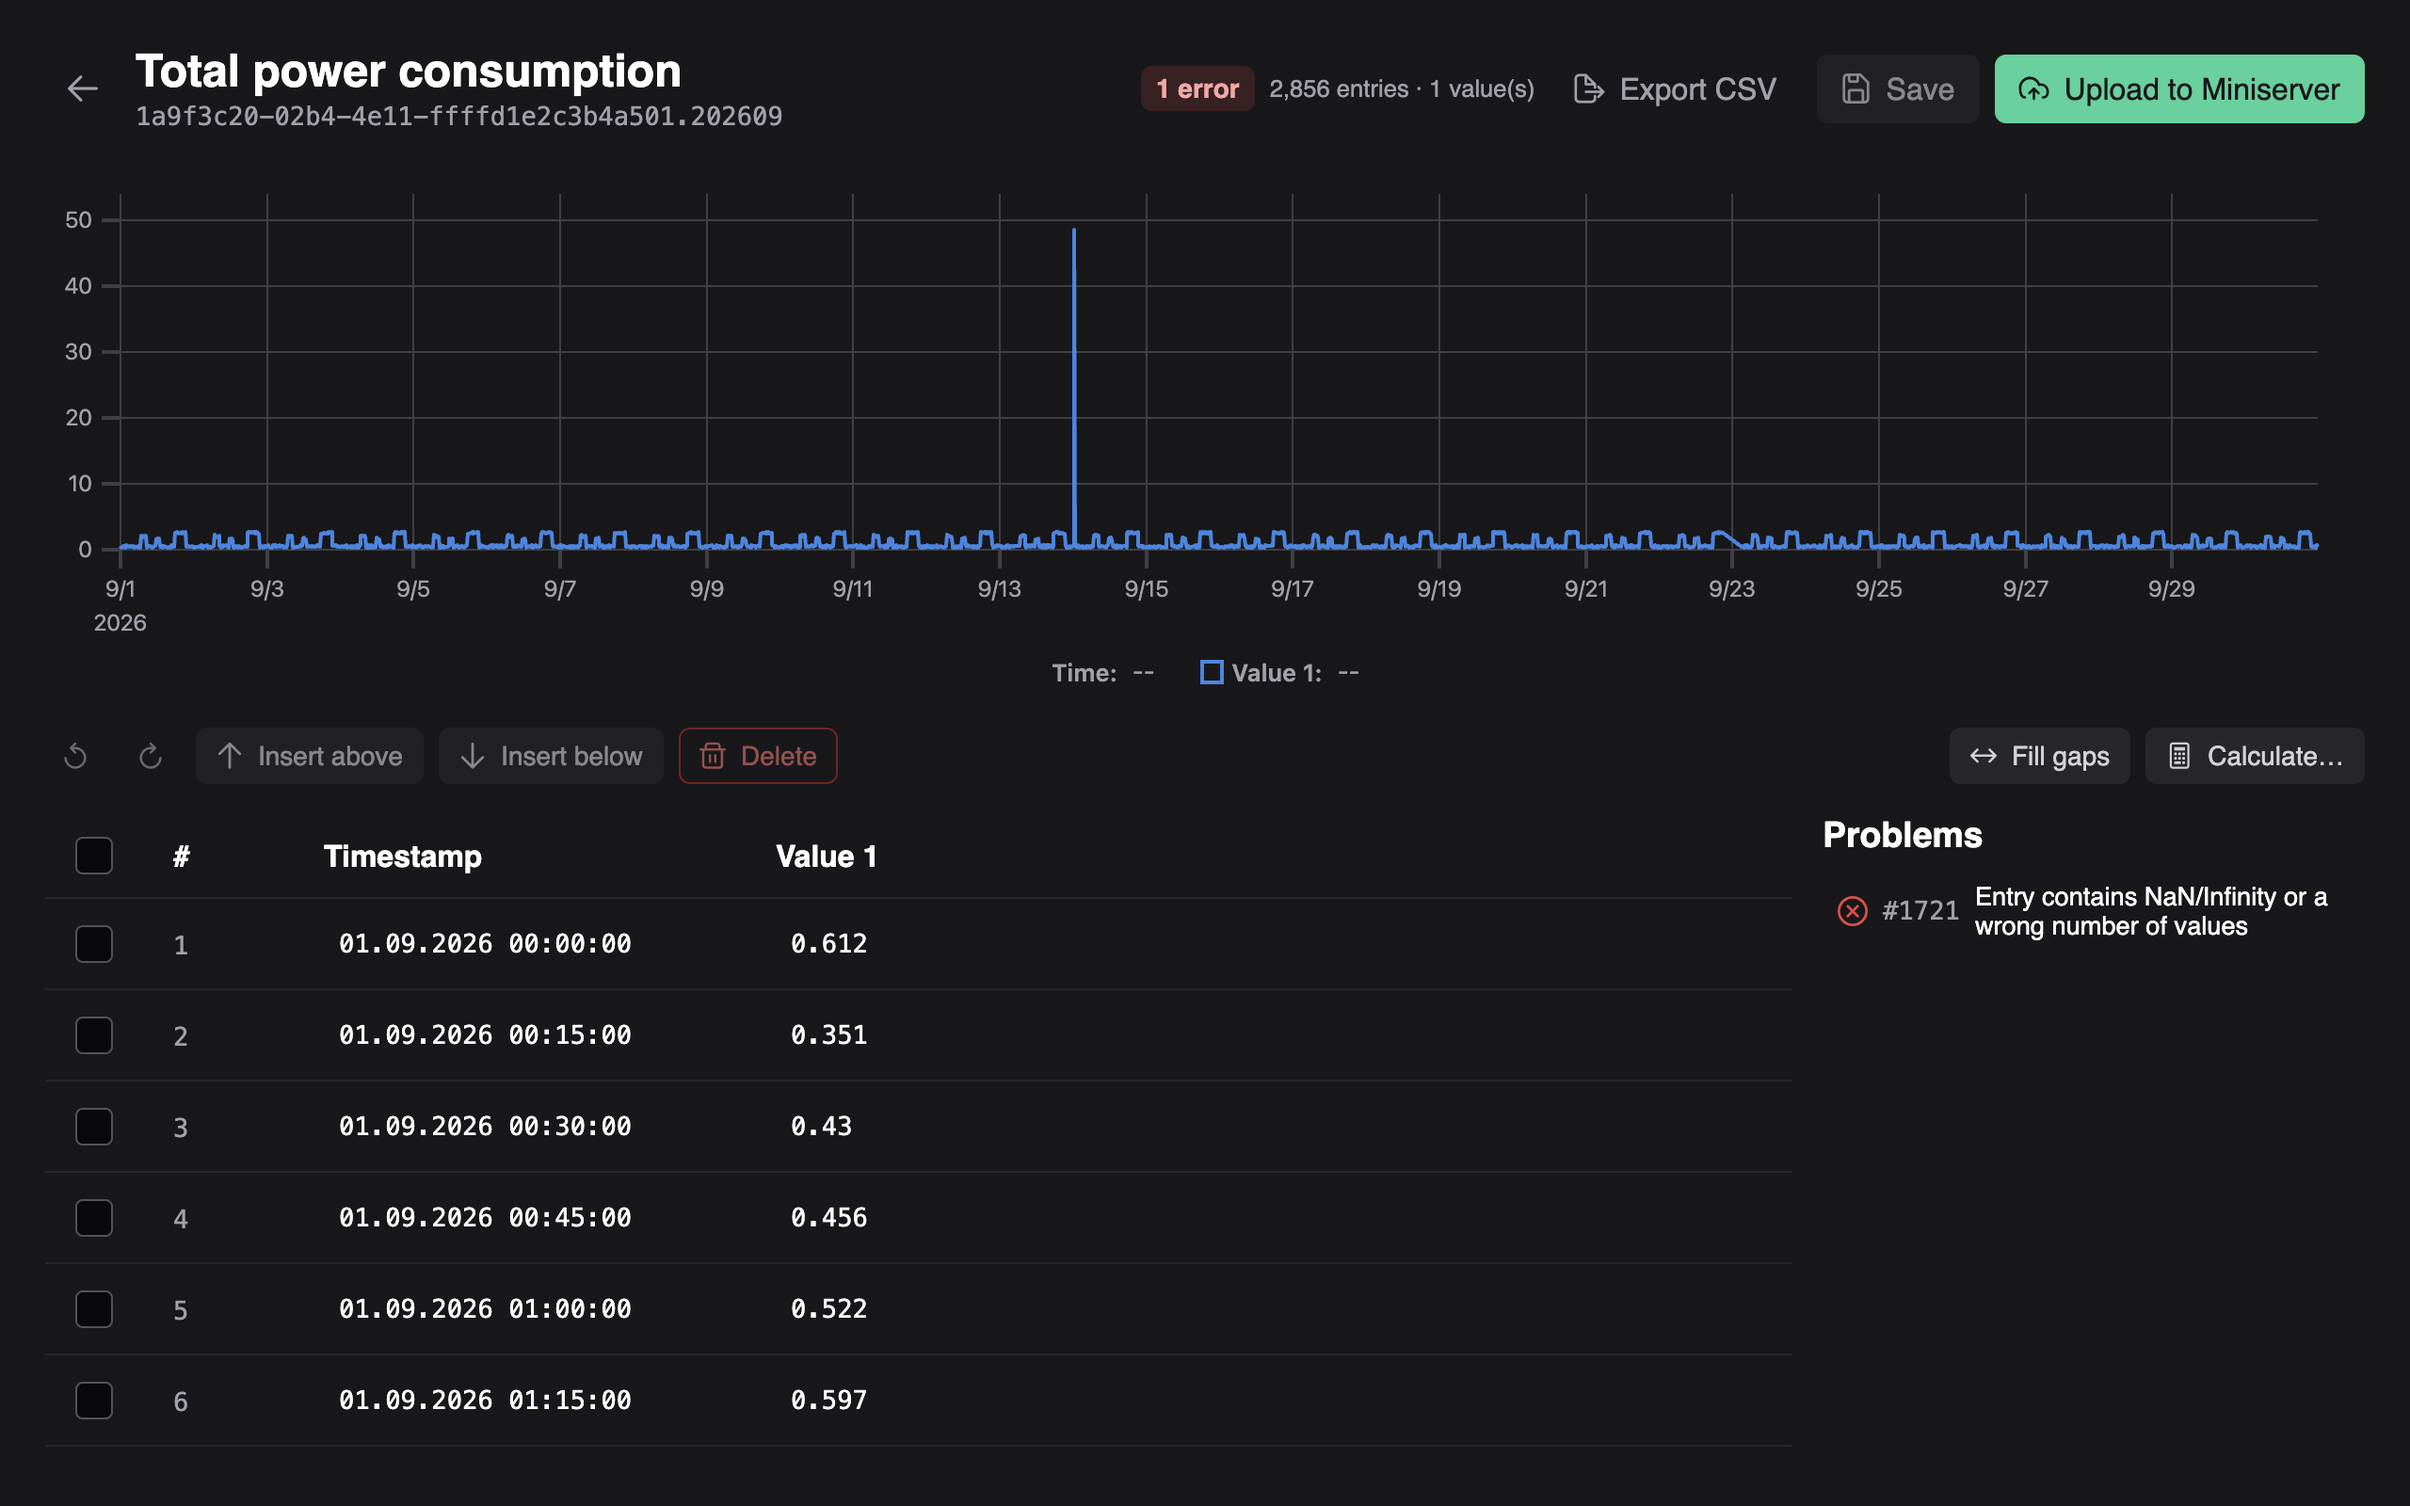
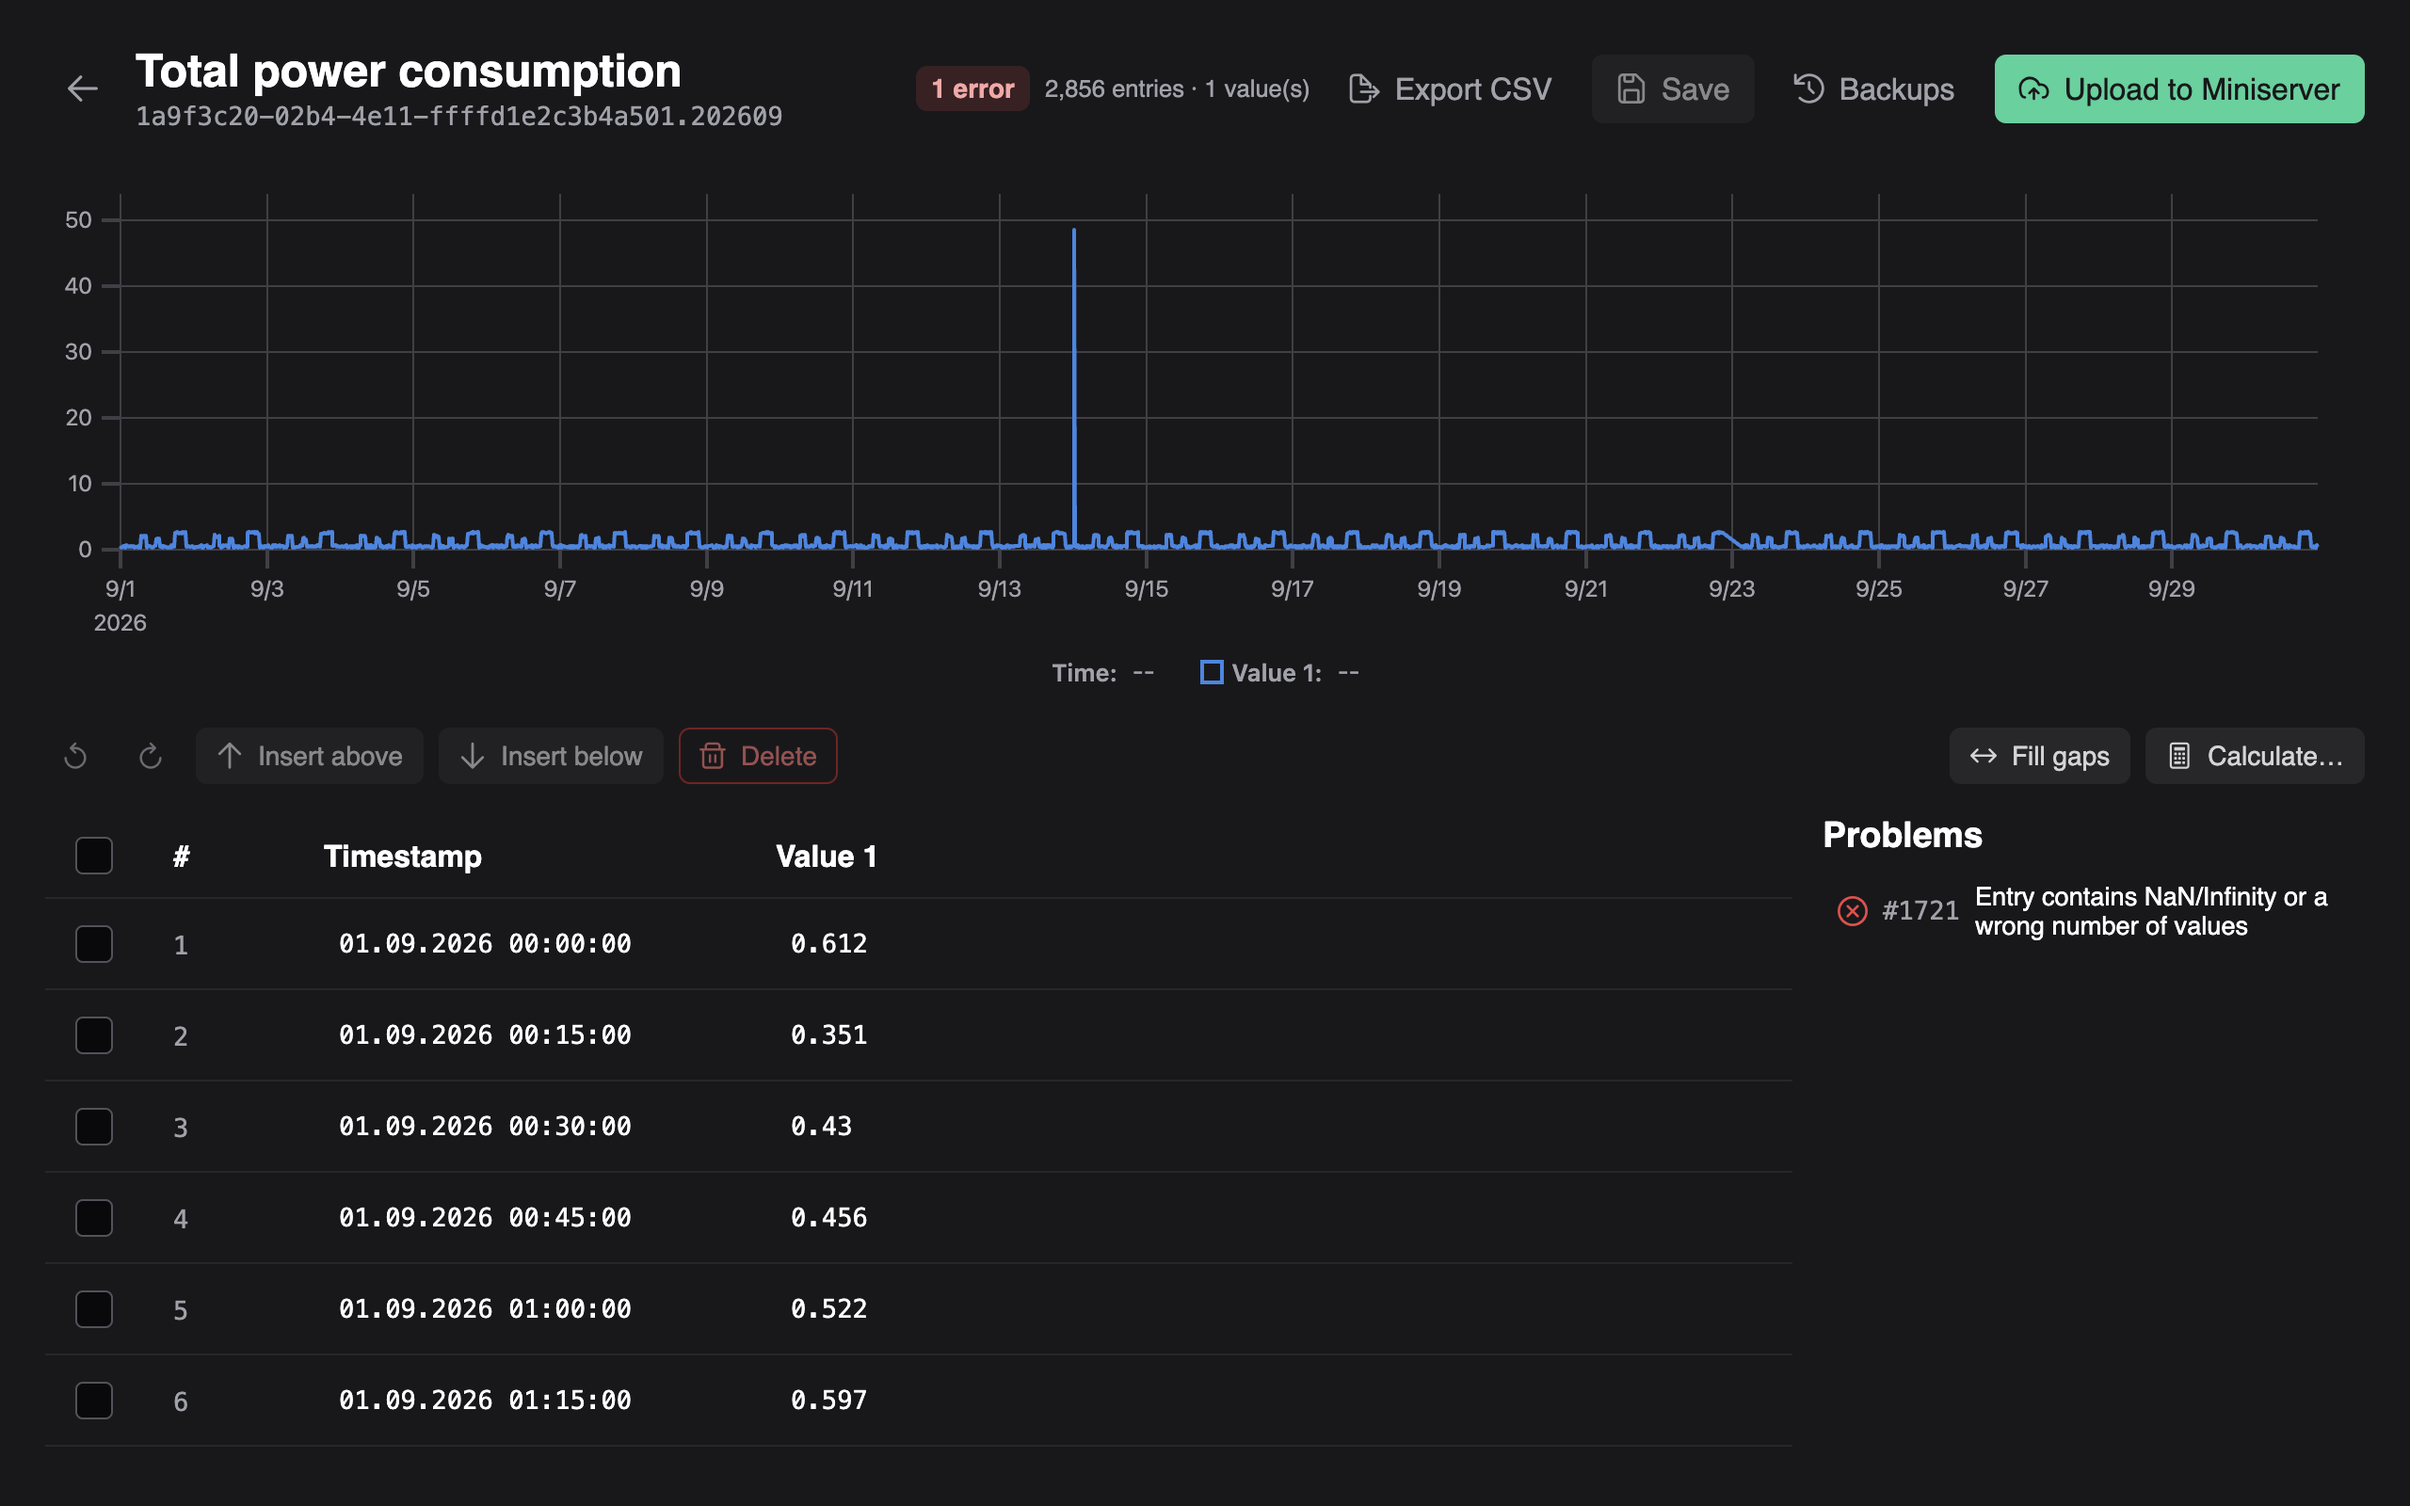
Release v0.4.0
Also: file list keeps month/size/modified/status on one line, so narrow
windows scroll instead of squeezing them under the frozen actions column.
Screenshots regenerated (Backups button).

Changed region(s): [[0.375, 0.0312, 0.8125, 0.0938]]

diff --git a/src/renderer/src/views/BrowserView.vue b/src/renderer/src/views/BrowserView.vue
@@ -345,16 +345,16 @@ onBeforeUnmount(() => {
           </span>
         </template>
       </Column>
-      <Column field="yyyymm" :header="t('browser.colMonth')" sortable>
+      <Column field="yyyymm" body-class="nowrap" :header="t('browser.colMonth')" sortable>
         <template #body="{ data }">{{ formatMonth(data.yyyymm) }}</template>
       </Column>
-      <Column field="size" :header="t('browser.colSize')" sortable>
+      <Column field="size" body-class="nowrap" :header="t('browser.colSize')" sortable>
         <template #body="{ data }">{{ formatSize(data.size) }}</template>
       </Column>
-      <Column field="modifiedAt" :header="t('browser.colModified')" sortable>
+      <Column field="modifiedAt" body-class="nowrap" :header="t('browser.colModified')" sortable>
         <template #body="{ data }">{{ formatDate(data.modifiedAt) }}</template>
       </Column>
-      <Column field="status" :header="t('browser.colStatus')" sortable>
+      <Column field="status" body-class="nowrap" :header="t('browser.colStatus')" sortable>
         <template #body="{ data }">
           <Tag
             :value="t(`status.${data.status}`)"
@@ -507,6 +507,10 @@ onBeforeUnmount(() => {
 }
 .row-actions {
   display: flex;
+}
+/* short values wrapping into two lines end up half under the frozen actions column */
+:deep(.nowrap) {
+  white-space: nowrap;
 }
 .desc {
   display: inline-flex;
